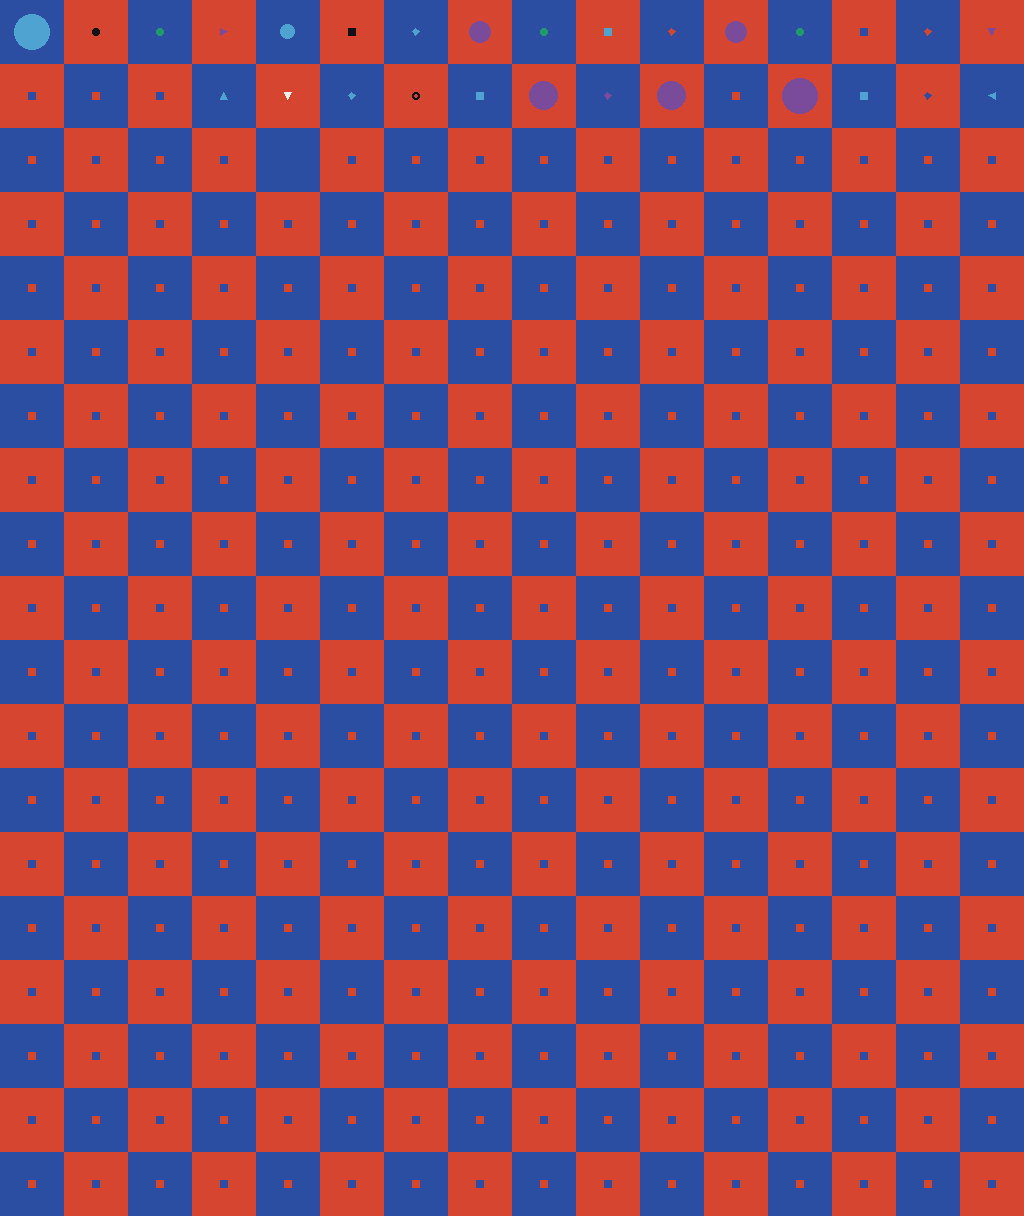
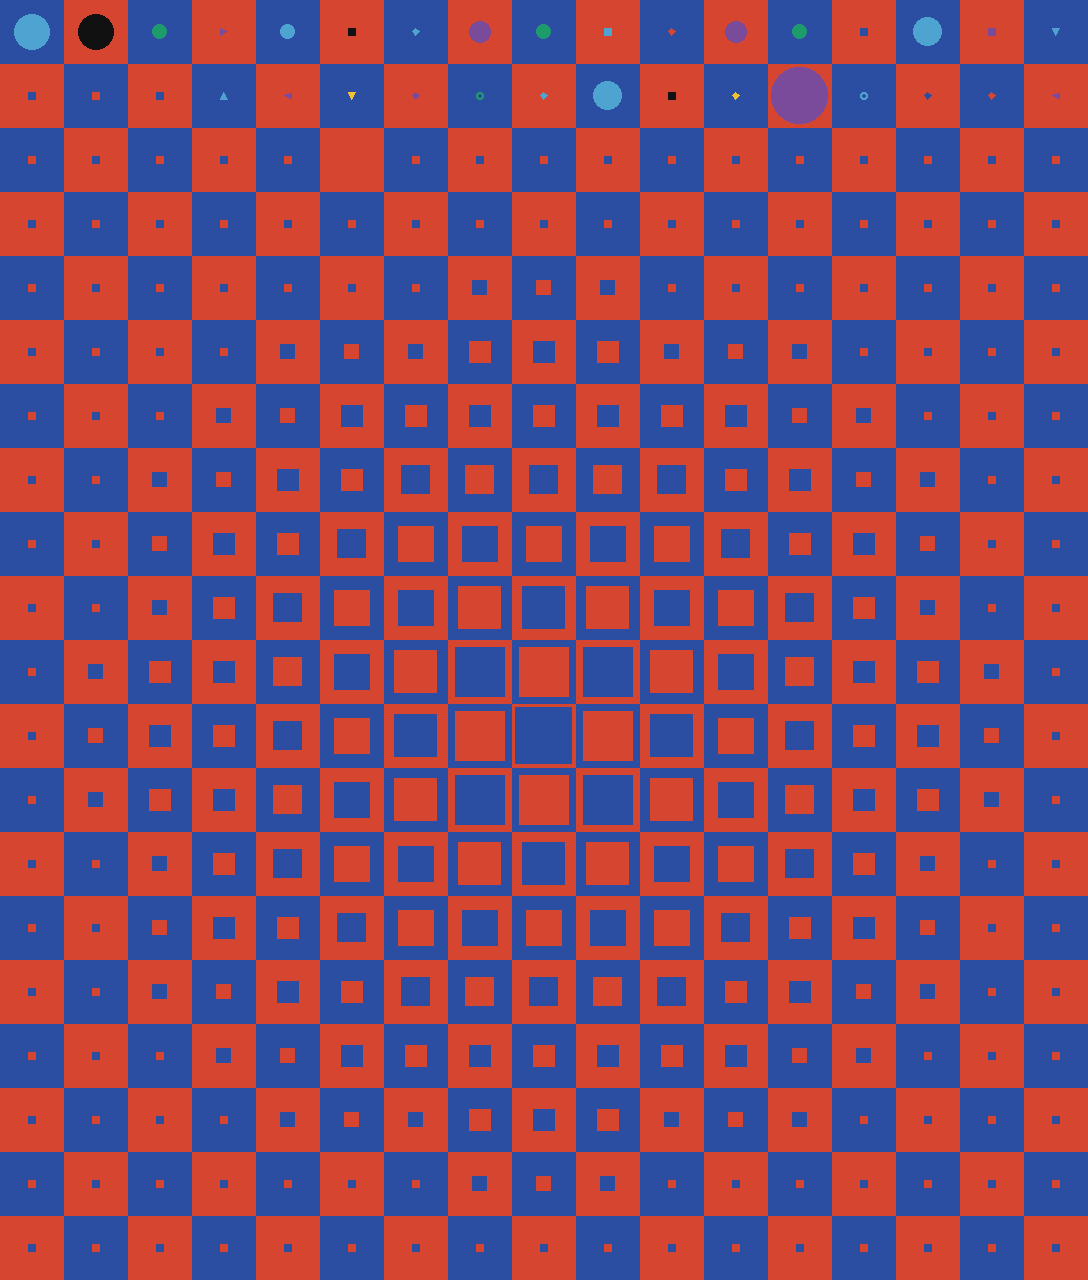
feat: ship inversion as its bulge and negate it at runtime
The plate shipped flat and computed a diagonal gradient, so its image was
a blank chequer and only one corner ever inverted. It now ships the radial
cone of the original design, centre already inverted, and the program
reads each size and writes back 7 - s, turning the cone into a bowl.

diff --git a/tests/test_examples.py b/tests/test_examples.py
@@ -575,19 +575,26 @@ def test_vortex_can_be_recoloured_without_changing_what_it_does():
 
 
 INVERSION_TOP = 3  # rows 0-1 are the program, row 2 holds the exit
+INVERSION_SIZE = 17
 
 
 def inversion_region(scales_at):
-    return [[scales_at(x, y + INVERSION_TOP) for x in range(16)] for y in range(16)]
+    return [[scales_at(x, y + INVERSION_TOP) for x in range(INVERSION_SIZE)]
+            for y in range(INVERSION_SIZE)]
 
 
-INVERSION_EXPECTED = [[(x + y) // 4 for x in range(16)] for y in range(16)]
+def inversion_shipped():
+    plate = notation.parse((EXAMPLES / "inversion.vsr").read_text())
+    return inversion_region(lambda x, y: plate.at(x, y).scale)
 
 
-def test_the_inversion_gradient_uses_the_whole_range_and_no_more():
-    # Why the loop needs no clamp: PUT faults outside 0-7, and 30 // 4 == 7.
-    values = [v for row in INVERSION_EXPECTED for v in row]
-    assert (min(values), max(values)) == (0, 7)
+def test_inversion_ships_a_bulge_with_its_centre_already_inverted():
+    # The shipped picture is the composition, not a blank to be filled: full
+    # size at the centre, nothing in the corners.
+    region = inversion_shipped()
+    centre = INVERSION_SIZE // 2
+    assert region[centre][centre] == 7
+    assert region[0][0] == region[0][-1] == region[-1][0] == region[-1][-1] == 0
 
 
 def test_every_inversion_square_is_drawn_in_its_neighbours_ground():
@@ -595,24 +602,49 @@ def test_every_inversion_square_is_drawn_in_its_neighbours_ground():
     # swaps its cell into its neighbour's colours rather than a third one.
     plate = notation.parse((EXAMPLES / "inversion.vsr").read_text())
     for y in range(INVERSION_TOP, plate.height):
-        for x in range(16):
+        for x in range(INVERSION_SIZE):
             cell = plate.at(x, y)
             assert (cell.form, cell.variant) == (Form.SQUARE, 4)
             neighbours = [plate.at(nx, ny) for nx, ny in ((x + 1, y), (x, y + 1))
-                          if nx < 16 and ny < plate.height]
+                          if nx < INVERSION_SIZE and ny < plate.height]
             assert all(cell.figure == n.ground for n in neighbours)
 
 
-def test_inversion_ships_flat_and_computes_its_own_gradient():
+def test_inversion_negates_its_own_picture():
     plate = notation.parse((EXAMPLES / "inversion.vsr").read_text())
-    assert inversion_region(lambda x, y: plate.at(x, y).scale) == [[0] * 16] * 16
-
     out = io.StringIO()
     machine = Machine(plate, stdin=io.StringIO(""), stdout=out)
-    machine.run(max_steps=7000)
+    machine.run(max_steps=8100)
 
     assert machine.halted and out.getvalue() == ""
-    assert inversion_region(lambda x, y: machine.field[y][x]) == INVERSION_EXPECTED
+    expected = [[7 - s for s in row] for row in inversion_shipped()]
+    assert inversion_region(lambda x, y: machine.field[y][x]) == expected
+    # Only the chequer is written; the program rows keep their sizes.
+    assert machine.field[:INVERSION_TOP] == [
+        [c.scale for c in row] for row in plate.cells[:INVERSION_TOP]
+    ]
+
+
+def test_inversion_reads_its_picture_rather_than_reciting_it():
+    # Reshape the cone and the result must follow, which it can only do if
+    # the program reads the sizes with get instead of writing a fixed answer.
+    base = notation.parse((EXAMPLES / "inversion.vsr").read_text())
+    rng = random.Random(1906)
+    reshaped = Plate(base.width, base.height, tuple(
+        tuple(
+            Cell(c.form, c.variant, rng.randrange(8), c.ground) if y >= INVERSION_TOP else c
+            for c in row
+        )
+        for y, row in enumerate(base.cells)
+    ))
+    machine = Machine(reshaped, stdin=io.StringIO(""), stdout=io.StringIO())
+    machine.run(max_steps=8100)
+    assert machine.halted
+    assert all(
+        machine.field[y][x] == 7 - reshaped.at(x, y).scale
+        for y in range(INVERSION_TOP, base.height)
+        for x in range(INVERSION_SIZE)
+    )
 
 
 def test_inversion_survives_a_full_image_round_trip():
@@ -621,13 +653,16 @@ def test_inversion_survives_a_full_image_round_trip():
 
 def test_the_shipped_inversion_gif_is_not_stale():
     # Checked from its frames rather than re-traced, as swell's is: the plate
-    # runs 6659 steps, and the claim lives in the first and last frame.
+    # runs 8094 steps, and the claim lives in the first and last frame.
     with Image.open(EXAMPLES / "inversion.gif") as image:
         frames = [frame.convert("RGB") for frame in ImageSequence.Iterator(image)]
 
-    # 247, not 257: the 10 cells with x + y < 4 are written the size they
-    # already ship at, and a write that changes no pixel is collapsed away.
-    assert len(frames) == 247
+    # One frame per square plus the first: 7 - s never equals s, so every
+    # write changes a pixel and none is collapsed away.
+    assert len(frames) == INVERSION_SIZE * INVERSION_SIZE + 1
     first, last = decode.decode(frames[0]), decode.decode(frames[-1])
-    assert inversion_region(lambda x, y: first.at(x, y).scale) == [[0] * 16] * 16
-    assert inversion_region(lambda x, y: last.at(x, y).scale) == INVERSION_EXPECTED
+    shipped = inversion_shipped()
+    assert inversion_region(lambda x, y: first.at(x, y).scale) == shipped
+    assert inversion_region(lambda x, y: last.at(x, y).scale) == [
+        [7 - s for s in row] for row in shipped
+    ]

diff --git a/README.md b/README.md
@@ -155,12 +155,13 @@ the variant is an offset: one instruction, two colours. It is the inverse of
 `examples/inversion.vsr` is a chequer that turns itself inside out by
 resizing. Every square is `div`, variant 4, on alternating blue and red
 grounds, and offset 4 is the one that makes each square's figure exactly its
-neighbours' ground: `2 + 4 = 6` and `6 + 4 = 2`. At size 0 the chequer reads
-blue and red, and at size 7 each square nearly fills its cell and it reads red
-and blue. The program writes the gradient `(x + y) / 4` into the field, so
-`examples/inversion.gif` shows one corner inverting and the other staying
-put; retracing it wants `--max-steps 7000`. No colour changes anywhere, and
-no opcode can change one.
+neighbours' ground: `2 + 4 = 6` and `6 + 4 = 2`. A small square reads as its
+ground and a full-size one as its neighbour's, so the plate ships as a cone of
+sizes with its centre already inverted. The program reads each size with
+`get` and writes back `7 - s`, the cone becomes a bowl, and
+`examples/inversion.gif` shows the inversion moving from the centre to the
+rim; retracing it wants `--max-steps 8100`. No colour changes anywhere, and no
+opcode can change one.
 
 `examples/tally.vsr` is what the offset encoding buys. Every cell is its
 own figure and ground pair, keyed by `(x + y) mod 8`, so all eight colours
@@ -224,7 +225,7 @@ the plate stops describing itself.
 | <img src="docs/previews/swell.png" width="90" height="120" alt="swell"> | `swell` | nothing; it inflates its own flat lattice into a sphere |
 | <img src="docs/previews/tally.png" width="180" height="120" alt="tally"> | `tally` | `613`, the total of its own glyph sizes |
 | <img src="docs/previews/vortex.png" width="120" height="120" alt="vortex"> | `vortex` | `vortex`, while the eye runs every cell once |
-| <img src="docs/previews/inversion.png" width="101" height="120" alt="inversion"> | `inversion` | nothing; it inverts its own chequer by resizing it |
+| <img src="docs/previews/inversion.png" width="102" height="120" alt="inversion"> | `inversion` | nothing; it turns its own bulge inside out |
 | <img src="docs/previews/quine.png" width="72" height="120" alt="quine"> | `quine` | its own source, byte for byte |
 
 ```bash
